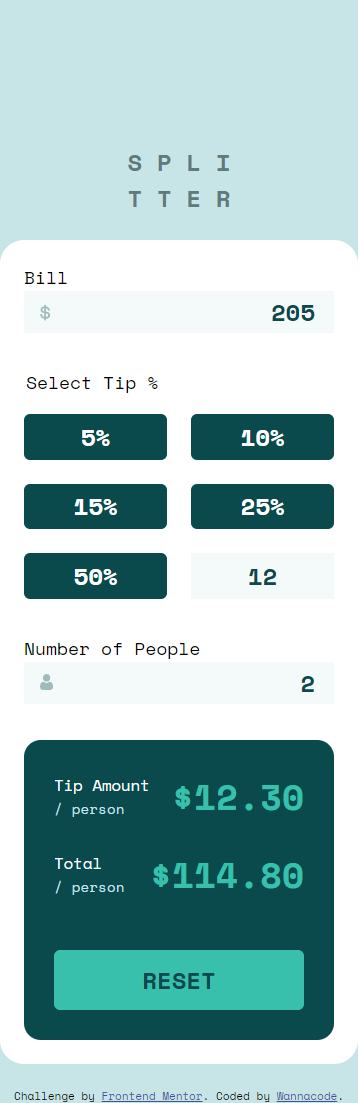
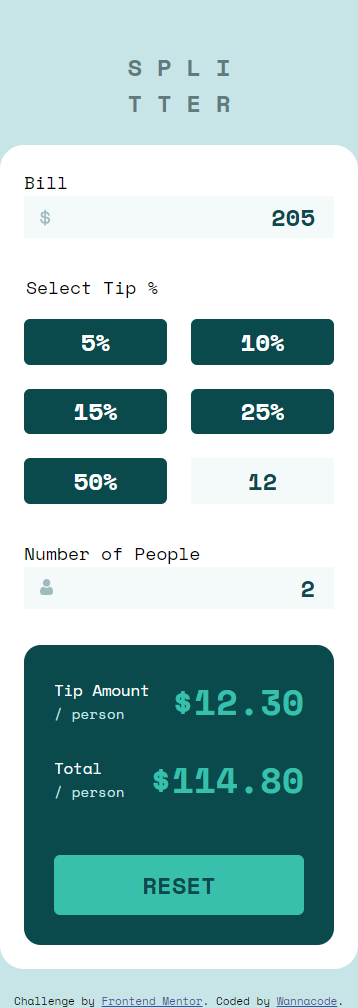
resized screenshots

diff --git a/style.css b/style.css
@@ -68,7 +68,7 @@ body {
 header {
     align-self: end;
     justify-self: center;
-    padding-block-start: 6rem;
+    padding-block-start: 2rem;
 }
 
 .appname {
@@ -309,6 +309,10 @@ legend {
   @media screen and (min-width: 768px) {
     .container {
         gap: 3rem;
+    }
+
+    header {
+        padding-block-start: 6rem;
     }
 
     main {
